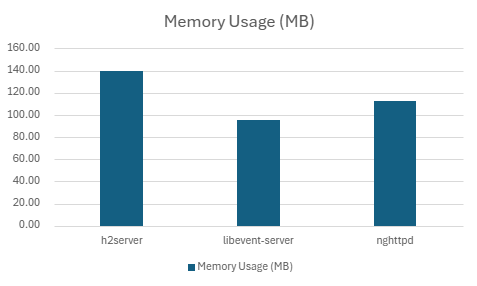
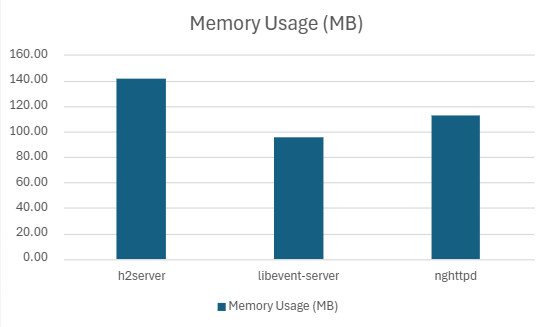
docs: update README with new performance test results
1) Load Balancer 고도화 및 성능 재측정
- 새롭게 추가된 기능이기 때문에 성능 측정이 필요 하였음

2) nghttpd 성능 재측정
- 지난 성능 측정 테스트 시, nghttpd와 h2server 의 테스트 조건이
동일하지 못해 nghttpd의 성능이 잘못 측정 되었었음
이에 nghttpd 를 동일한 조건으로 성능을 재측정 함

3) README 에 고도화 내역 및 테스트 결과 반영

diff --git a/README.md b/README.md
@@ -17,6 +17,8 @@ The project was inspired by a [webserver](https://github.com/hyeonsu-choe/websvr
 - File caching using `mmap`
 - Supports registering user-defined handler for both `GET` and `POST` Method via `Router`
 - Supports uploading **multipart/from-data**
+- **Custom Load Balancer** using an **indirection table** for efficient multi-thread worker dispatch  
+- **Bounded CircularQueue** for overload-safe scheduling and predictable memory usage 
 
 
 ## 🛠 Tech Stack
@@ -236,9 +238,9 @@ pidstat -r -u -p <PID> 1 60
 
 | Server | Version / Commit | QPS | Success Rate (%) | p99 Latency (ms) | p90 Latency (ms) | p50 Latency (ms)  | CPU Usage (%) | Memory Usage (MB) |
 |---------------|-------------|------------|-----------|--------|-------|----------|---------|----------|
-| h2server | `d5412ab` | 217159.334 | 100% | 510.0868 | 484.559 | 458.1346 | 99.846 | 140.04 |
+| h2server | c34cd1d9ce | 205574.332| 100% | 547.7828 | 508.3812 | 486.7182 | 99.942 | 141.19  |
 | libevent-server | nghttp2 1.60.0 | 204798.998 |100% | 541.5324 | 507.1514 | 479.899 | 99.912 | 95.45 |
-| nghttpd | nghttp2 1.60.0 | 366110.576 | 100% | 293.5366 | 213.9618 | 147.3734 | 88.154 | 112.97 |
+| nghttpd | nghttp2 1.60.0 | 321848.43 | 100% | 235.788 | 166.4234 | 157.616 | 85.59 | 112.38 |
 
 | ![table1_qps](./docs/h2_c1000_m100_3servers_qps.png) | ![table1_p99](./docs/h2_c1000_m100_3servers_p99.png) |
 |:------------------------------------:|:------------------------------------:|
@@ -260,10 +262,10 @@ pidstat -r -u -p <PID> 1 60
 #### A. QPS
 | Threads | h2server | nghttpd |
 |:---------:|:----------:|:---------:|
-| **1** | 217159.334 | 366110.576 |
-| **2** | 389953.44 | 402464.334 |
-| **4** | 426597.082 | 399435.666 |
-| **8** | 423505.2 | 397154.602 |
+| **1** |205574.332 |	321848.43 |
+| **2** |393091.732 |	358788.664 |
+| **4** |403797.186 |	367662.9 |
+| **8** |404569.212 |	348835.566|
 
 | ![table2_qps](./docs/h2_c1000_m100_qps_scaling.png) |
 |:------------------------------------:|
@@ -272,10 +274,10 @@ pidstat -r -u -p <PID> 1 60
 #### B. p99 Latency
 | Threads | h2server | nghttpd |
 |:---------:|:----------:|:---------:|
-| **1** | 510.0868 | 293.5366 |
-| **2** | 295.7502 | 159.732 |
-| **4** | 153.9212 | 169.6138 |
-| **8** | 148.8116 | 176.494 |
+| **1** | 547.7828 |	235.788 |
+| **2** | 305.2898 |	188.0264|
+| **4** | 157.3542 |	177.935 |
+| **8** | 152.979	| 182.8562 |
 
 | ![table2_p99](./docs/h2_c1000_m100_p99_scaling.png) |
 |:------------------------------------:|
@@ -284,10 +286,11 @@ pidstat -r -u -p <PID> 1 60
 #### C. CPU Usage
 | Threads | h2server | nghttpd |
 |:---------:|:----------:|:---------:|
-| **1** | 99.846 | 88.154 |
-| **2** | 186.524 | 107.372 |
-| **4** | 208.794 | 109 |
-| **8** | 210.396 | 121.392 |
+| **1**|99.942	| 85.59 |
+| **2**|194.396	| 105.616 |
+| **4**|203.208	| 113.07 |
+| **8**|214.93	| 122.024 |
+
 
 | ![table2_cpu](./docs/h2_c1000_m100_cpu_scaling.png) |
 |:------------------------------------:|
@@ -296,10 +299,11 @@ pidstat -r -u -p <PID> 1 60
 #### D. Memory Usage
 | Threads | h2server | nghttpd |
 |:---------:|:----------:|:---------:|
-| **1** | 140.0394531 | 112.9652344 |
-| **2** | 139.2839844 | 113.3726563 |
-| **4** | 128.4552734 | 113.0642578 |
-| **8** | 128.0207031 | 112.834375 |
+| **1** | 141.1904297	| 112.3808594 |
+| **2** | 136.2841797	| 116.7830078 |
+| **4** | 141.8414063	| 115.0414063 |
+| **8** | 143.1271484	| 112.4423828 |
+
 
 | ![table2_mem](./docs/h2_c1000_m100_mem_scaling.png) |
 |:------------------------------------:|
@@ -308,10 +312,10 @@ pidstat -r -u -p <PID> 1 60
 
 ### ✅ Benchmark Summary
 1. Throughput (QPS)
-   - With a single thread, `nghttpd` achieves higher throughput (217K vs 366K).
+   - With a single thread, `nghttpd` achieves higher throughput (205K vs 321K).
    - With 4–8 threads, `h2server` scales more effectively and outperforms `nghttpd`.
-     - h2server: 426K QPS
-     - nghttpd: 402K QPS
+     - h2server: 404K QPS
+     - nghttpd: 367K QPS
 
     👉 Better scalability with h2server in multi-threaded environments.
 
@@ -322,18 +326,18 @@ pidstat -r -u -p <PID> 1 60
     👉 h2server delivers more stable and lower tail latency under multi-threaded workloads.
 
 3. CPU Usage
-   - `h2server` utilizes CPU resources much more aggressively (e.g., 208% vs 109% at 4 threads).
-   - This reflects a design tradeoff: higher CPU usage in exchange for better throughput and latency.
+   - `h2server` utilizes CPU resources much more aggressively (e.g., 214% vs 122% at 8 threads).
+   - This reflects a tradeoff: higher CPU usage in exchange for better throughput and latency.
 
 4. Memory Usage
    - `nghttpd` consistently shows lower memory consumption across all tests.
-   - `h2server` consumes slightly more memory, but usage decreases as threads scale (from ~140MB at 1 thread to ~128MB at 8 threads).
+   - `h2server` consumes slightly more memory (from ~141MB at 1 thread to ~143MB at 8 threads).
 
 5. Overall Interpretation  
    - h2server: Strong scalability with higher throughput and lower latency under multi-threaded conditions, at the cost of higher CPU utilization.
    - nghttpd: More efficient in single-thread performance and memory usage, but limited scalability.
 
-   👉 In short: “nghttpd excels in single-thread efficiency, while h2server outperforms in multi-thread scalability and tail latency.”
+   👉 In short: “nghttpd excels in single-thread efficiency, while h2server outperforms in multi-thread scalability and tail latency(p99).”
 
 
 - **Notes & test constraints:**  
